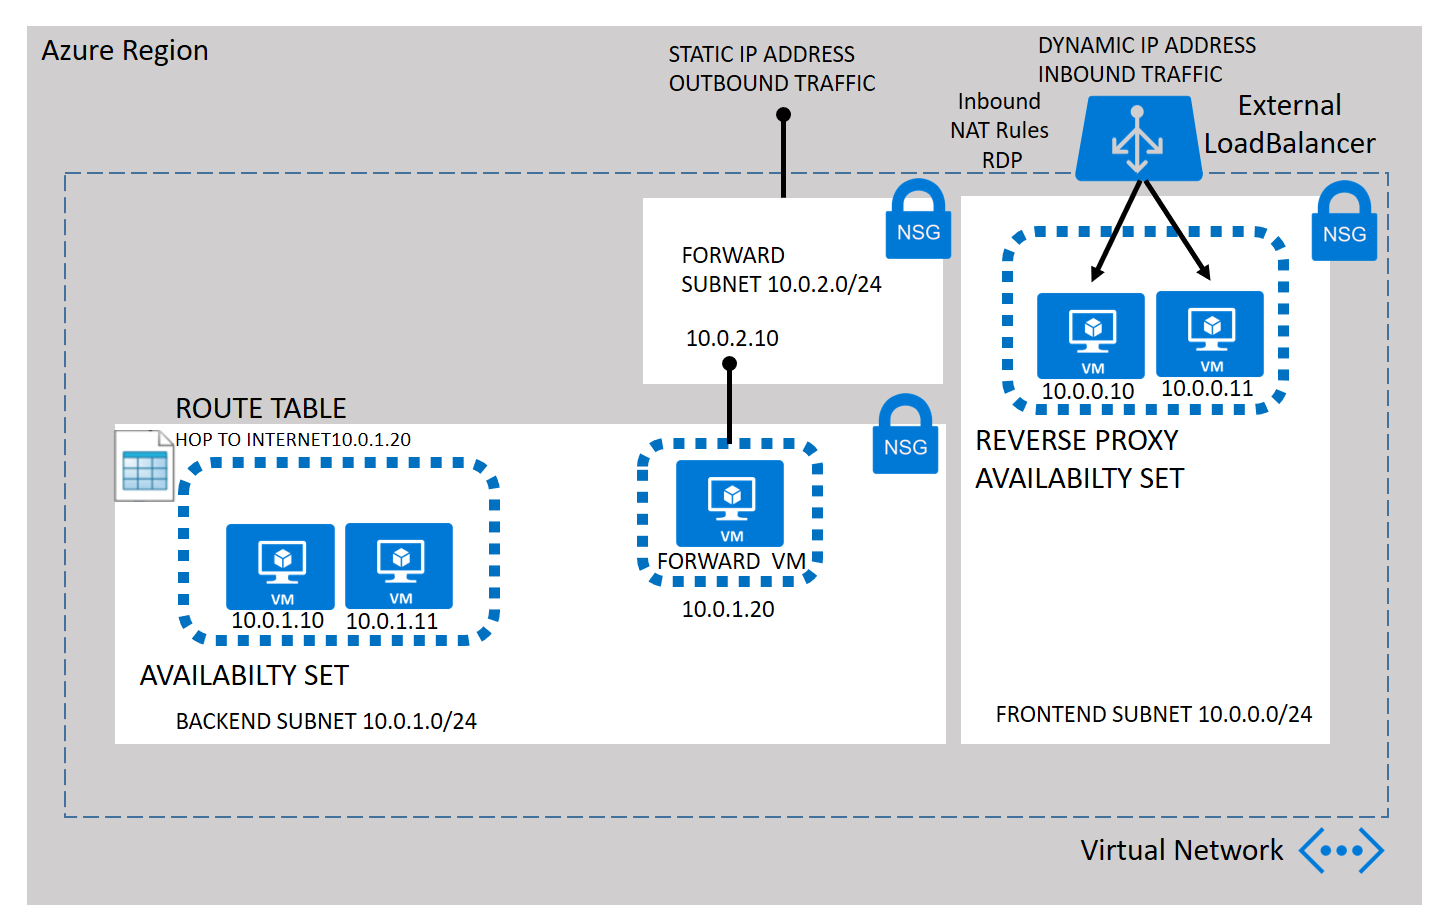
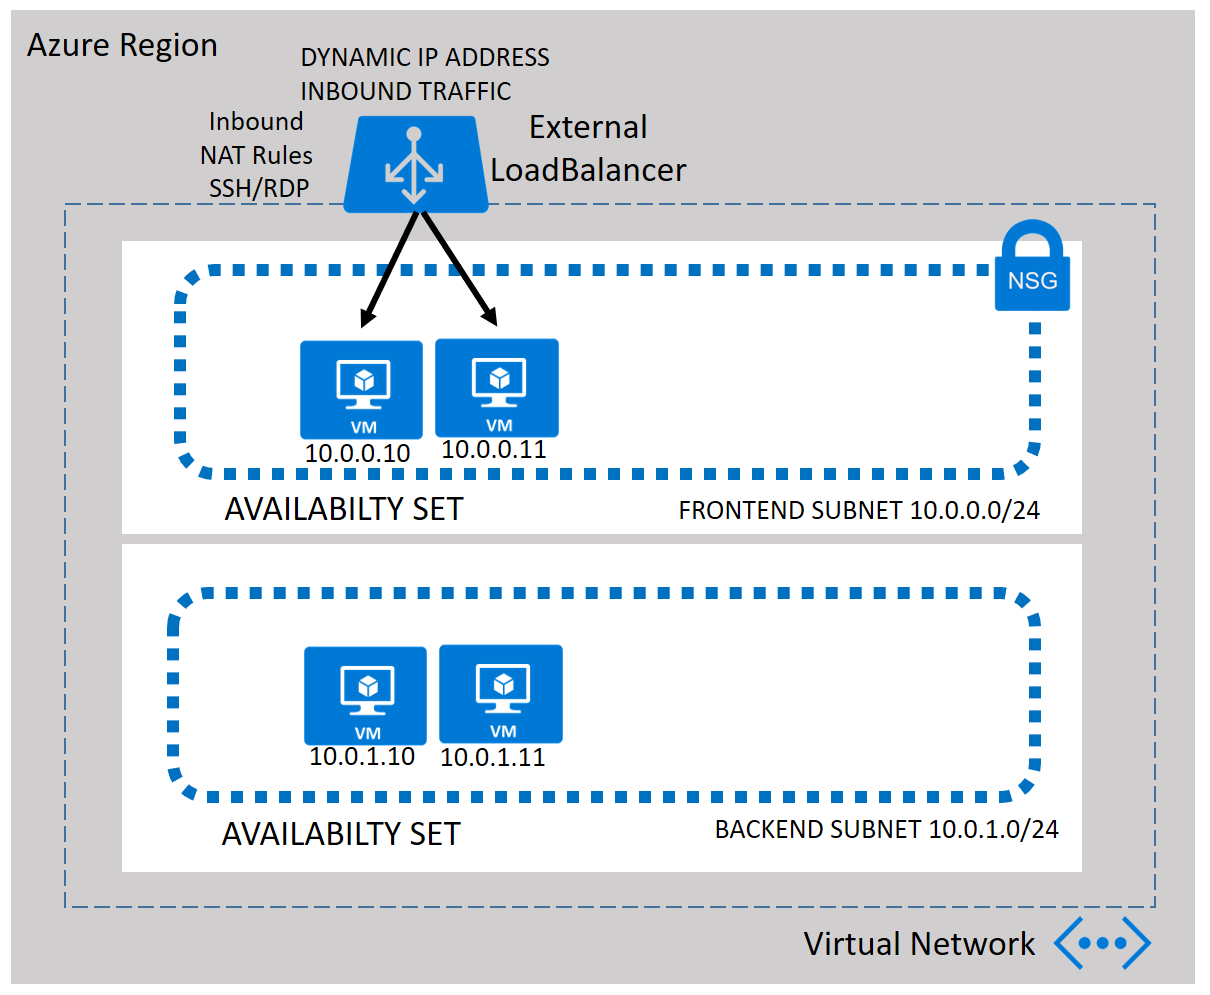
update template

diff --git a/azure-quickstart-templates/201-lb-vms-frontend-backend/README.md b/azure-quickstart-templates/201-lb-vms-frontend-backend/README.md
@@ -1,27 +1,27 @@
-# Deployment of N Debian VMs running Apache (port 80) and iperf3 (port 5201) behind a Load Balancer and N Debian VM in a backend network using the same IP address for the outbound traffic.
+# Deployment of <N> VMs running Apache (port 80) behind a Load Balancer and <M> Debian VM in a backend subnetwork.
 
-<a href="https://portal.azure.com/#create/Microsoft.Template/uri/https%3A%2F%2Fraw.githubusercontent.com%2Fflecoqui%2Fazure%2Fmaster%2Fazure-quickstart-templates%2F201-lb-vms-rras-outbound-debian-iperf%2Fazuredeploy.json" target="_blank">
+<a href="https://portal.azure.com/#create/Microsoft.Template/uri/https%3A%2F%2Fraw.githubusercontent.com%2Fflecoqui%2Fazure%2Fmaster%2Fazure-quickstart-templates%2F201-lb-vms-frontend-backend%2Fazuredeploy.json" target="_blank">
     <img src="http://azuredeploy.net/deploybutton.png"/>
 </a>
-<a href="http://armviz.io/#/?load=https%3A%2F%2Fraw.githubusercontent.com%2Fflecoqui%2Fazure%2F%2Fmaster%2Fazure-quickstart-templates%2F201-lb-vms-rras-outbound-debian-iperf%2Fazuredeploy.json" target="_blank">
+<a href="http://armviz.io/#/?load=https%3A%2F%2Fraw.githubusercontent.com%2Fflecoqui%2Fazure%2F%2Fmaster%2Fazure-quickstart-templates%2F201-lb-vms-frontend-backend%2Fazuredeploy.json" target="_blank">
     <img src="http://armviz.io/visualizebutton.png"/>
 </a>
 
 
 This template allows you to deploy the following configuration:
-An Azure Load Balancer which routes the inbound traffic towards an availability set of VMs running a Web Site and iperf3 in server mode in the frontend subnet.
-Moreover, all the VMs in the backend subnet must use the same outbount IP address as the service they need to reach is protected with a whitelist of IP addresses.
-A route table associated with the backend subnet will route all the outbound traffic towards a VM running RRAS between two NIC cards: one connected to the backend subnet and the second one connected a a public IP address.
+An Azure Load Balancer which routes the inbound traffic towards an availability set of VMs running a Web Site in server mode in the frontend subnet.
+Moreover, VMs are also deployed in the backend subnet .
 </p>
-![](https://raw.githubusercontent.com/flecoqui/azure/master/azure-quickstart-templates/201-lb-vms-rras-outbound-debian-iperf/Docs/architecture.png)
+![](https://raw.githubusercontent.com/flecoqui/azure/master/azure-quickstart-templates/201-lb-vms-frontend-backend/Docs/architecture.png)
 </p>
 ###The main parameters are:</p>
-- The VM oS Debian Version (7, 8)</p>
+- The VM provider, VM Offer, VM Sku and VM Version for the VM in the frontend</p>
 - The VM size for the VM in the frontend subnet</p>
 - The number of VM in the frontend subnet</p>
+- The VM provider, VM Offer, VM Sku and VM Version for the VM in the backend</p>
 - The VM size for the VM in the backend subnet</p>
 - The number of VM in the backend subnet</p>
-- The VM size for the forward VM. As this VM needs to support 2 NIC card, you need to select at least D2 VMs.</p>
+</p>
 
 
 vmSize (Standard_AX, Standard_DX, Standard_DX_v2, Standard_FX, ...) : 
@@ -50,32 +50,42 @@ vmCount (from 1 to 4):
       ]
     },
 
-osVersion (7, 8):
+VM Publisher, Offer, Sku and Version:
 
-    "osVersion": {
+    "frontendImagePublisher": {
       "type": "string",
-      "defaultValue": "8",
-      "allowedValues": [
-        "7",
-        "8"
-      ],
       "metadata": {
-        "description": "The Debian version for the VM. "
-      }
+        "description": "frontendImagePublisher"
+      },
+      "defaultValue": "credativ"
     },
+    "frontendImageOffer": {
+      "type": "string",
+      "metadata": {
+        "description": "frontendImageOffer"
+      },
+      "defaultValue": "Debian"
+    },
+    "frontendImageSku": {
+      "type": "string",
+      "metadata": {
+        "description": "frontendImageSku"
+      },
+      "defaultValue": "8"
+    },
+    "frontendImageVersion": {
+      "type": "string",
+      "metadata": {
+        "description": "frontendImageVersion"
+      },
+      "defaultValue": "latest"
+    },
+
 
 The Load Balancer is configured to forward the following ports:
 ###SSH TCP 22 (command line: "ssh -p 5000X VMAdmin@[PublicIPAddress]")
 Load Balancer Public IP Address : port tcp 50000   ->   VM0 port tcp 22</p>
 Load Balancer Public IP Address : port tcp 50001   ->   VM1 port tcp 22</p>
-
-###iPerf TCP (command line: "iperf3 -c [PublicIPAddress] -p [5200X]")
-Load Balancer Public IP Address : port tcp 52000   ->   VM0 port tcp 5201</p>
-Load Balancer Public IP Address : port tcp 52001   ->   VM1 port tcp 5201</p>
-
-###iPerf UDP (command line: "iperf3 -c [PublicIPAddress] -u -p [5200X]")
-Load Balancer Public IP Address : port udp 52000   ->   VM0 port udp 5201</p>
-Load Balancer Public IP Address : port udp 52001   ->   VM1 port udp 5201</p>
 
 With Azure CLI you can deploy these VMs and the Load Balancer with 2 following command lines:
 
@@ -92,47 +102,6 @@ azure group deployment create "ResourceGroupName" "DeploymentName"  -f azuredepl
 For instance:
 
     azure group deployment create rraslbgrp deprraslbtest -f azuredeploy.json -e azuredeploy.parameters.json -vv
-
-
-##CHECK THE OUTBOUND IP ADDRESS:
-
-In order to valid the installation, you need to check the outbound IP Address.
-</p>
-1. Once the deployment is done in the output section you can see the ssh command line to establish a SSH session with the VMs in the frontend subnet.  
-</p>
-![](https://raw.githubusercontent.com/flecoqui/azure/master/azure-quickstart-templates/201-lb-vms-rras-outbound-debian-iperf/Docs/1-ssh.png)
-</p>
-For instance: </p>
-
-	 ssh -p 50000 VMAdmin@frontendvm.eastus2.cloudapp.azure.com
-</p>
-2. From the VMs in the frontend subnet, you can establish a SSH session with the VMs in the backend subnet.
-</p>
-For instance: </p>
-
-	 ssh -p 22 VMAdmin@10.0.1.10
-</p>
-3. Once connected with the VM in the backend subnet, you need to install curl on your VM.</p>
-Launch the following commands: </p>
-</p>
-
-	 sudo -i
-</p>
-
-	 apt-get -y install curl
-</p>
-4. Once curl is installed, run the following command to get the outbound IP address of the VM in the backend subnet
-Command:</p>
-
-	 curl -s checkip.dyndns.org | sed -e 's/.*Current IP Address: //' -e 's/<.*$//'
-</p>
-![](https://raw.githubusercontent.com/flecoqui/azure/master/azure-quickstart-templates/201-lb-vms-rras-outbound-debian-iperf/Docs/1-myip.png)
-</p>
-5. On this Azure portal check the Public IP address of the forward VM is the same:
-</p>
-![](https://raw.githubusercontent.com/flecoqui/azure/master/azure-quickstart-templates/201-lb-vms-rras-outbound-debian-iperf/Docs/2-myip.png)
-</p>
-
 
 ##DELETE THE RESOURCE GROUP:
 azure group delete "ResourceGroupName" "DataCenterName"
